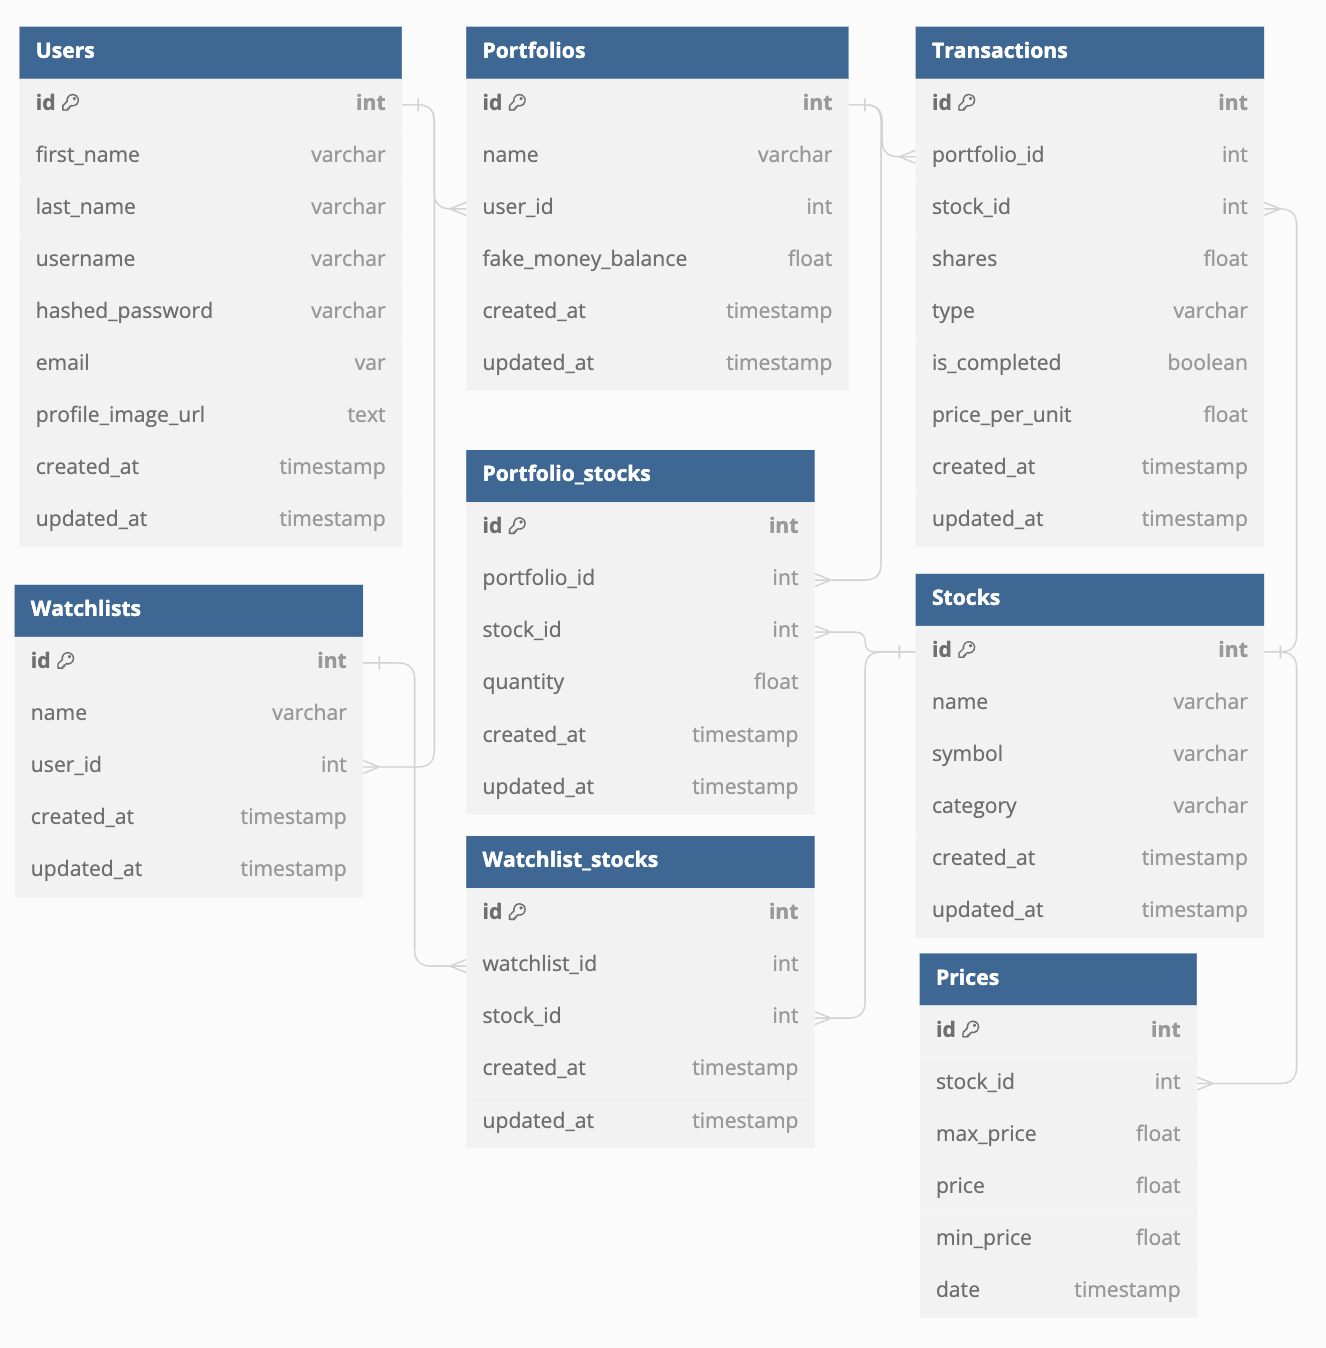
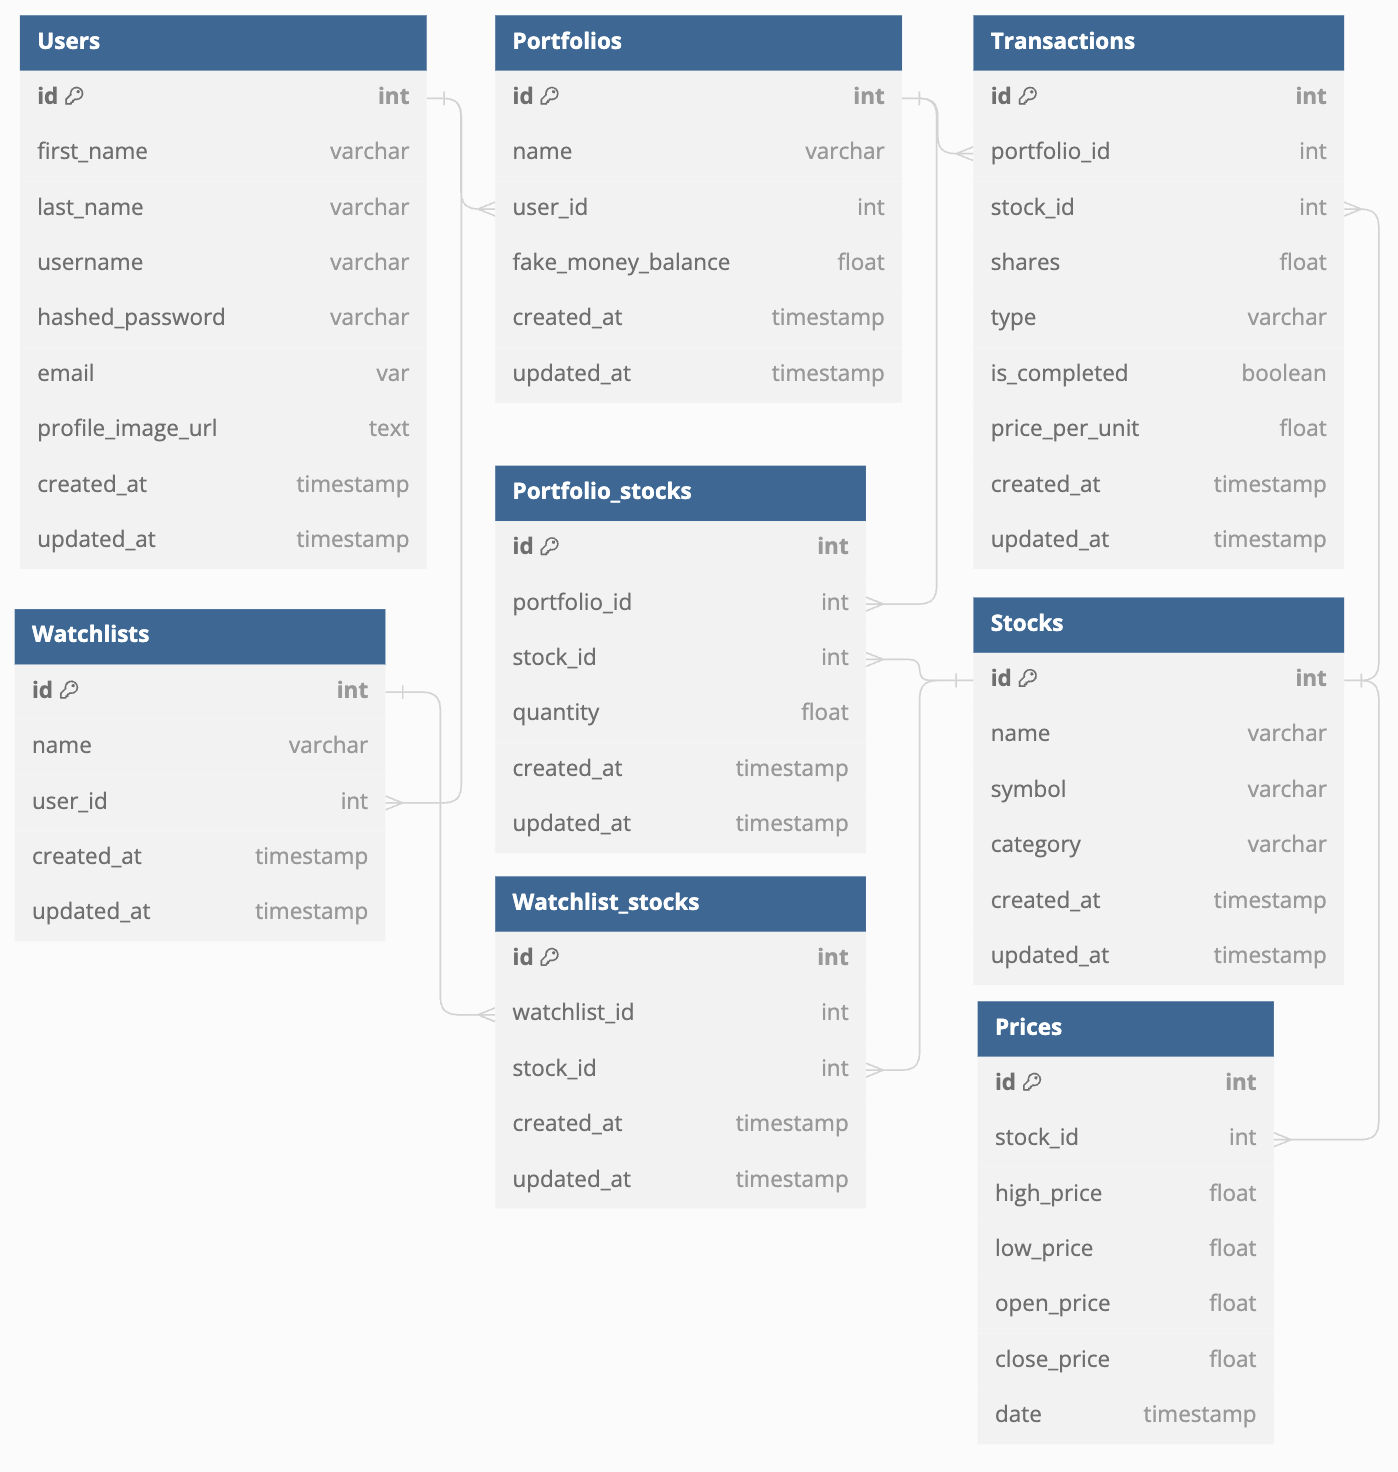
prices updated

diff --git a/migrations/versions/20240228_090651_price.py b/migrations/versions/20240228_090651_price.py
@@ -25,9 +25,10 @@ def upgrade():
     op.create_table('prices',
     sa.Column('id', sa.Integer(), nullable=False),
     sa.Column('stock_id', sa.Integer(), nullable=False),
-    sa.Column('max_price', sa.Float(), nullable=False),
-    sa.Column('price', sa.Float(), nullable=False),
-    sa.Column('min_price', sa.Float(), nullable=False),
+    sa.Column('high_price', sa.Float(), nullable=False),
+    sa.Column('low_price', sa.Float(), nullable=False),
+    sa.Column('open_price', sa.Float(), nullable=False),
+    sa.Column('close_price', sa.Float(), nullable=False),
     sa.Column('date', sa.Date(), nullable=True),
     sa.ForeignKeyConstraint(['stock_id'], ['stocks.id'], ),
     sa.PrimaryKeyConstraint('id')

diff --git a/app/models/price.py b/app/models/price.py
@@ -11,9 +11,10 @@ class Price(db.Model):
 
     id = db.Column(db.Integer, primary_key=True)
     stock_id = db.Column(db.Integer, db.ForeignKey(add_prefix_for_prod("stocks.id")), nullable=False)
-    max_price = db.Column(db.Float, nullable=False)
-    price = db.Column(db.Float, nullable=False)
-    min_price = db.Column(db.Float, nullable=False)
+    high_price = db.Column(db.Float, nullable=False)
+    low_price = db.Column(db.Float, nullable=False)
+    open_price = db.Column(db.Float, nullable=False)
+    close_price = db.Column(db.Float, nullable=False)
     date = db.Column(db.Date)
 
     """ many-to-one """

diff --git a/app/seeds/prices.py b/app/seeds/prices.py
@@ -8,9 +8,10 @@ def seed_prices():
     prices = [
         {
             "stock_id": 1,
-            "max_price": 180,
-            "price": 180,
-            "min_price": 180,
+            "high_price": 180,
+            "low_price": 180,
+            "open_price": 180,
+            "close_price": 180,
             "date": date.fromisoformat("2024-02-28")
         },
      ]
